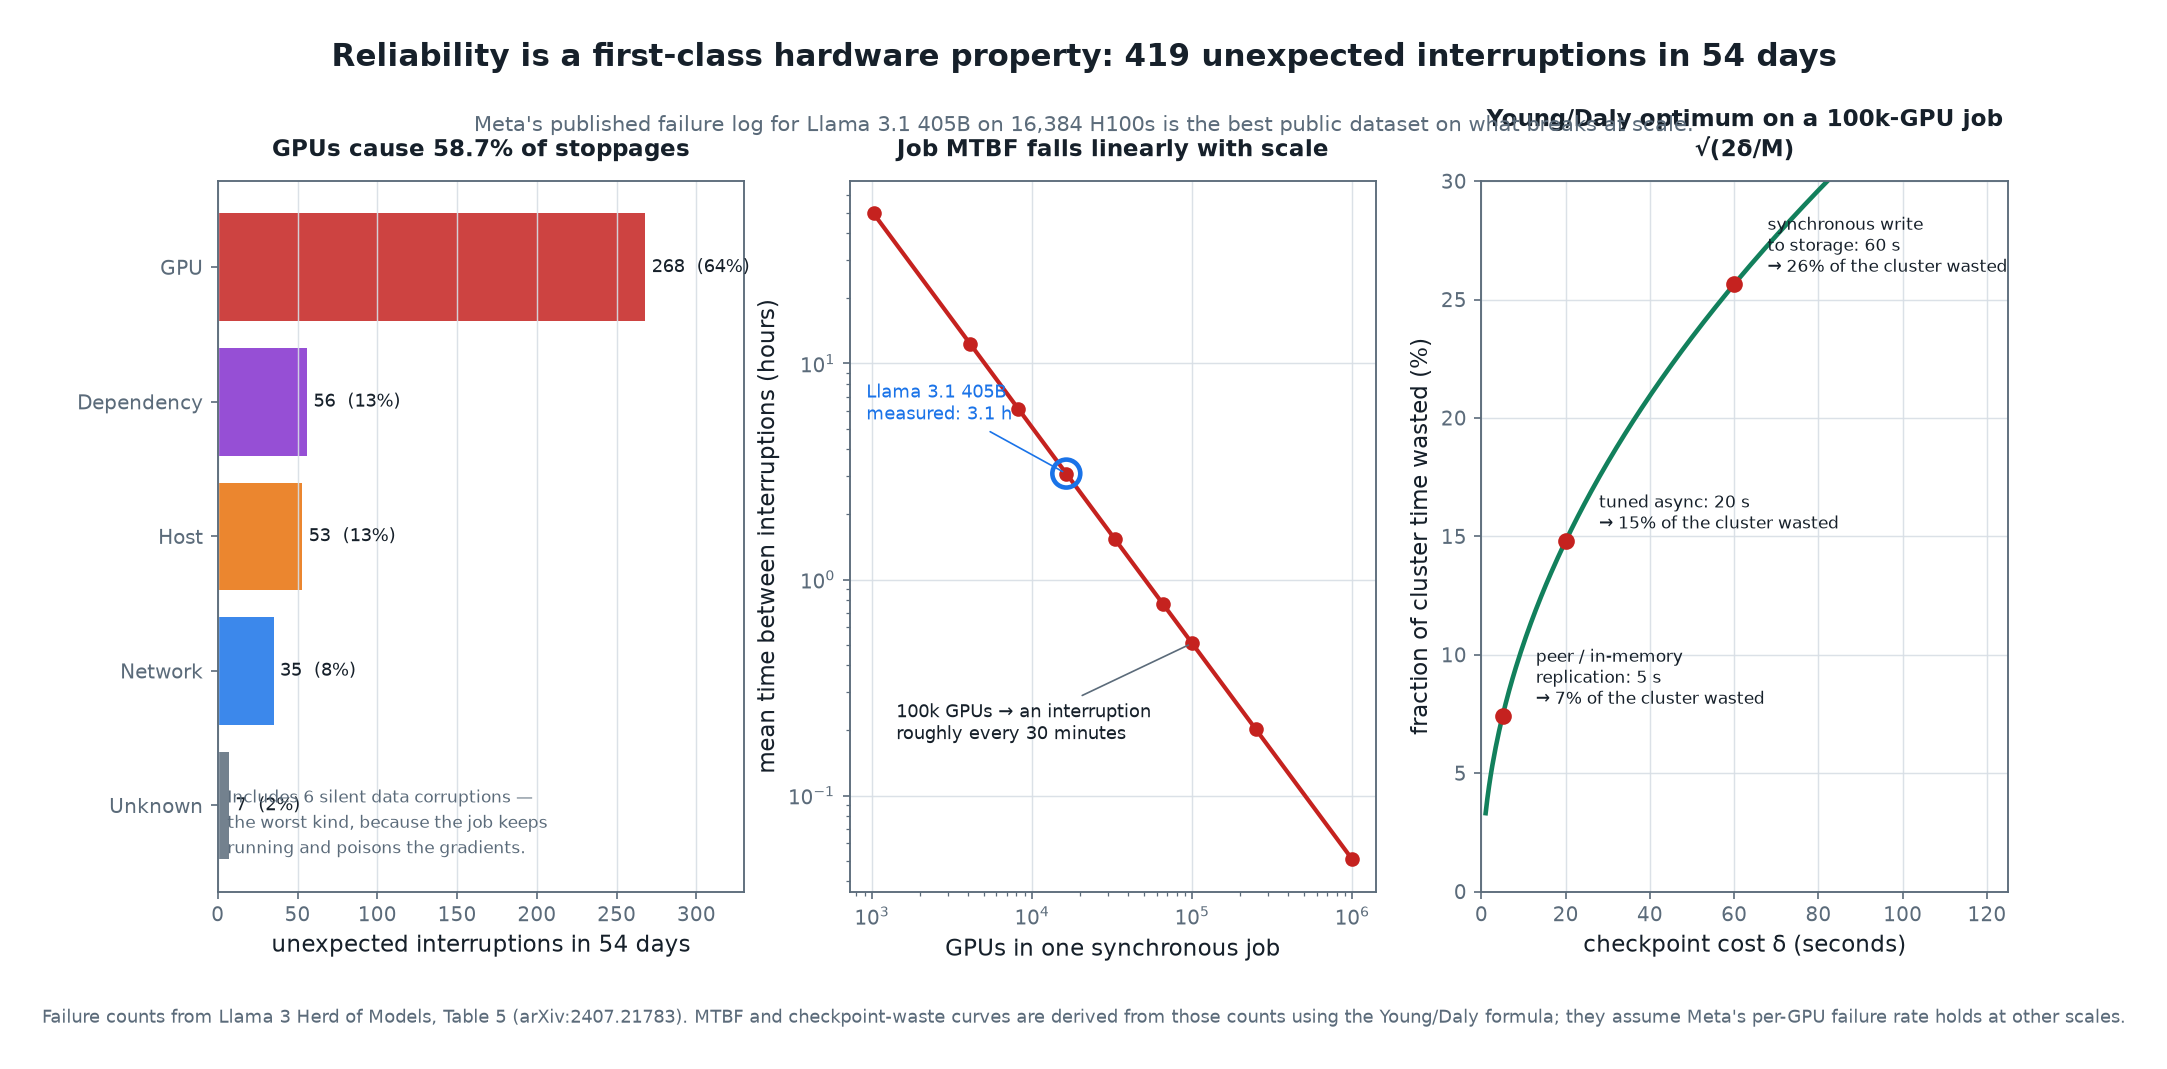
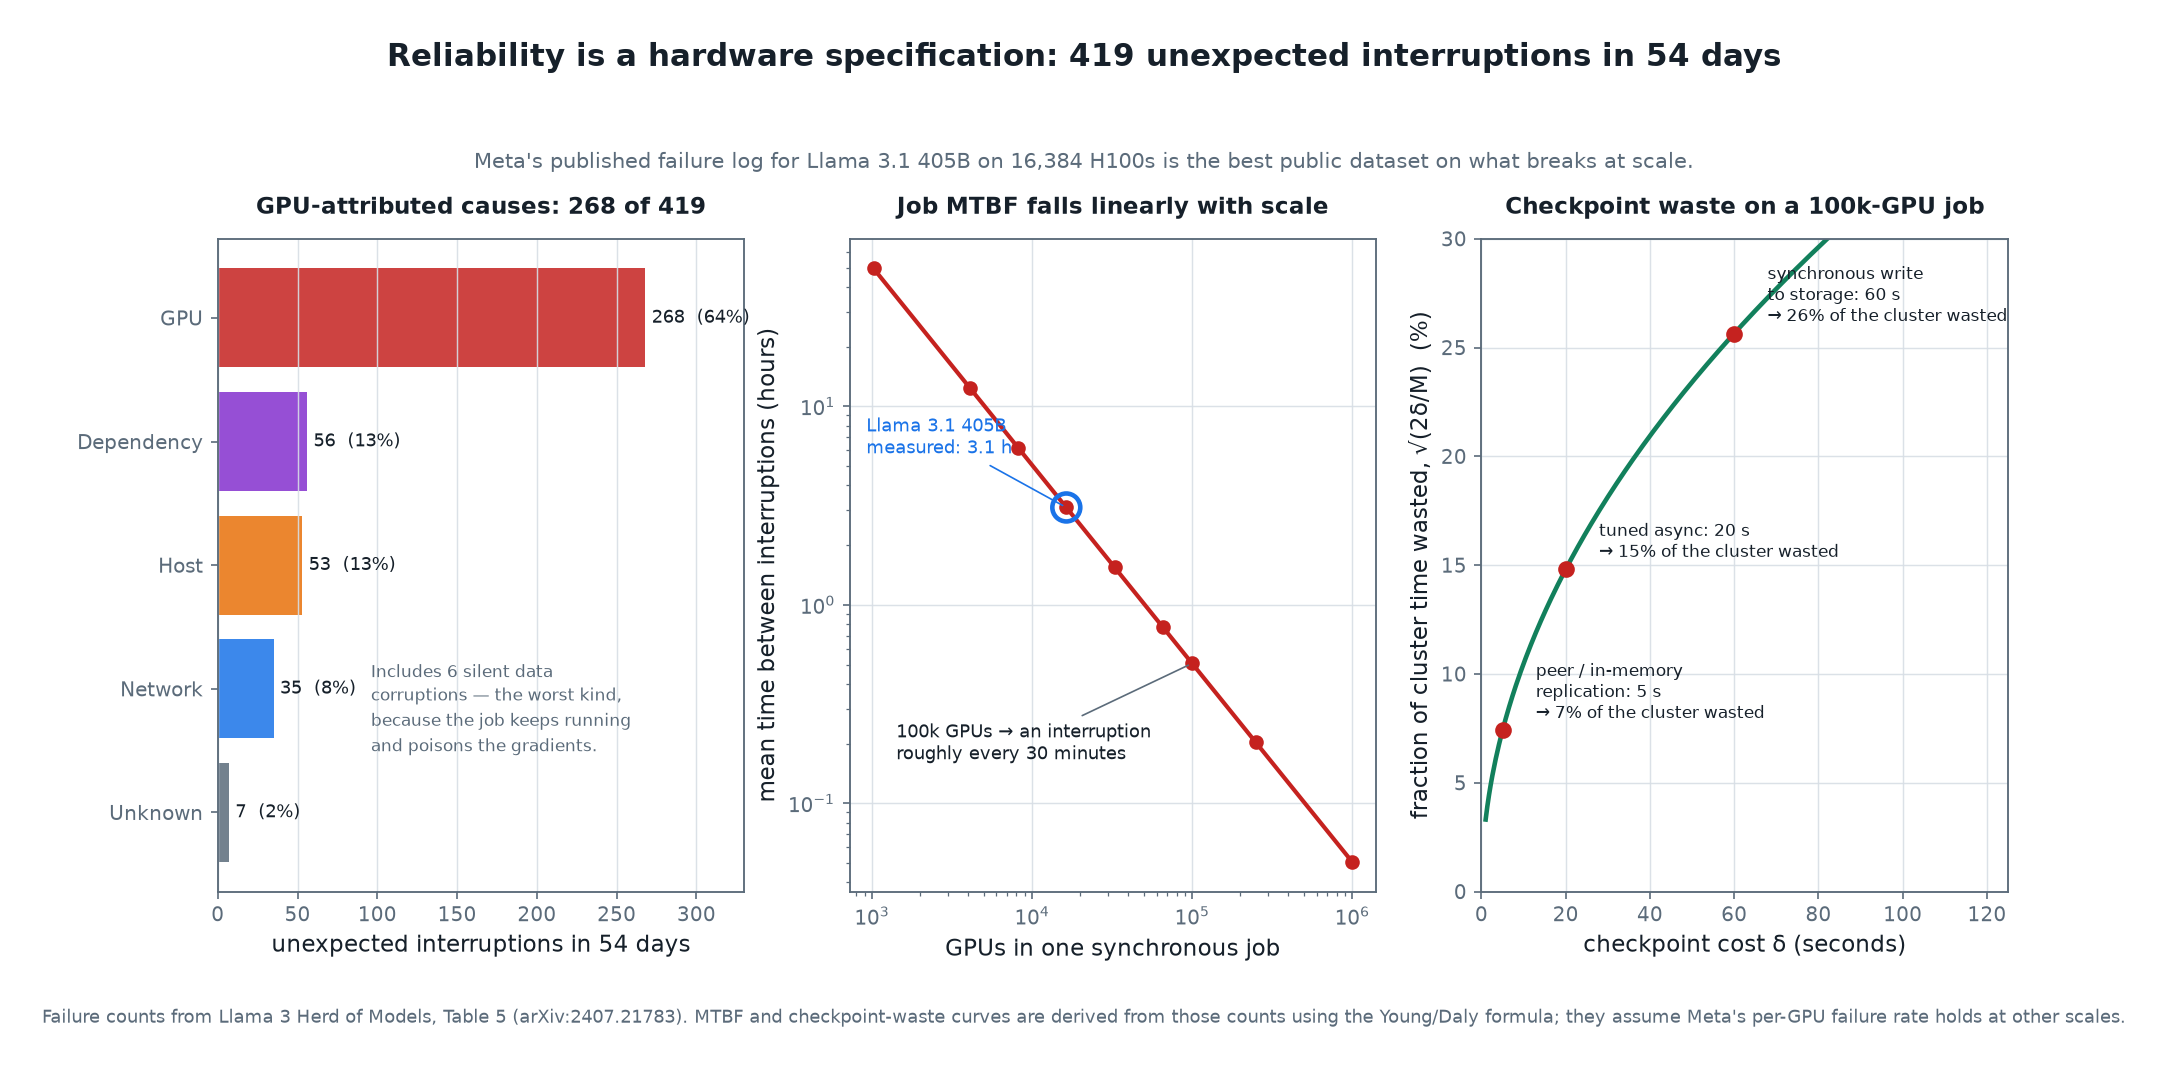
Correct cited dataset counts and reconcile Llama 3 GPU failure share
- appendix: 49 accelerators / 59 cloud offers / 12 rack systems (was 58/61/13)
- section 4.6: state Meta's 58.7% GPU share alongside the 268-of-419 (64%)
  tabulation and explain which causes the difference depends on
- add the HBM capacity-vs-bandwidth figure to section 9 (was unreferenced)
- fig20: fix title collision and annotation overlap

diff --git a/docs/index.html b/docs/index.html
@@ -909,7 +909,7 @@ footer { margin-top: 70px; padding-top: 20px; border-top: 1px solid var(--line);
 <p>One trap worth naming: <strong>FP8 runs report lower MFU while being faster</strong>, because the FP8 peak is 2× the BF16 peak. Databricks measured a 1.4–1.5× throughput gain from FP8 alongside a <em>lower</em> MFU percentage. Any MFU comparison without a stated, common, dense denominator is meaningless.</p>
 <h3 id="46-reliability-is-a-hardware-specification">4.6 Reliability is a hardware specification</h3>
 <p><img alt="Llama 3 failure breakdown, job MTBF versus scale, and checkpoint waste" src="figures/fig20_reliability.png" /></p>
-<p>Meta's published failure log for Llama 3.1 405B on 16,384 H100s over 54 days is the best public dataset in existence on what breaks at scale: <strong>466 interruptions, 47 planned and 419 unexpected, of which about 78% were hardware and 58.7% were GPU-specific</strong> — 148 faulty GPUs, 72 HBM3 failures, 19 SRAM, 17 GPU system processors, 6 silent data corruptions. Software bugs were third at 12.9%. Only <strong>3 of 419</strong> events needed significant human intervention, and Meta still achieved over 90% effective training time. (confirmed — Llama 3 paper, Table 5)</p>
+<p>Meta's published failure log for Llama 3.1 405B on 16,384 H100s over 54 days is the best public dataset in existence on what breaks at scale: <strong>466 interruptions, 47 planned and 419 unexpected, of which about 78% were confirmed hardware issues.</strong> Meta states that GPU issues are the largest single category at <strong>58.7% of unexpected interruptions</strong>; tabulating the paper's per-cause counts (148 faulty GPUs, 72 HBM3 failures, 19 SRAM, 17 GPU system processors, 6 thermal-interface or sensor faults, 6 silent data corruptions) gives 268 of 419, or 64% — the difference depends on whether SRAM, thermal and silent-corruption events are attributed to the GPU. Software bugs were third at 54 events. Only <strong>3 of 419</strong> interruptions needed significant human intervention, and Meta still achieved over 90% effective training time. (confirmed — Llama 3 paper, Table 5)</p>
 <p>Derived consequences (estimate, assuming Meta's per-GPU rate holds):</p>
 <ul>
 <li>Per-GPU MTBF ≈ 2,112 GPU-days ≈ 5.8 GPU-years counting all causes.</li>
@@ -2209,6 +2209,9 @@ footer { margin-top: 70px; padding-top: 20px; border-top: 1px solid var(--line);
 </tr>
 </tbody>
 </table>
+<p>The memory plane is where the field is least NVIDIA-shaped, and it deserves its own view because capacity and bandwidth trade against each other differently for every vendor:</p>
+<p><img alt="HBM capacity versus bandwidth across the field" src="figures/fig10_memory_scatter.png" /></p>
+<p>Three things stand out. AMD has led on capacity for three straight generations and now leads on bandwidth too. HBM4 is the first generation where bandwidth roughly triples rather than creeping up — 22 TB/s on Rubin and about 23 TB/s on MI455X, against 8 TB/s for the entire Blackwell/MI355X generation. And the cost-optimised inference parts (TPU v5e and v6e at 16–32 GB, MTIA v2 on LPDDR5 at 205 GB/s, L4 at 300 GB/s) sit far below the frontier deliberately: for recommendation and ranking the bottleneck is embedding capacity and random access, not sequential bandwidth, and paying for HBM there is waste.</p>
 <h3 id="92-efficiency">9.2 Efficiency</h3>
 <p><img alt="Compute and memory per watt" src="figures/fig11_perf_per_watt.png" /></p>
 <p>Chip-level perf/W favours the specialised parts, and the ordering is stable across metrics: TPU and Maia-class ASICs lead on memory per watt, Blackwell leads on compute per watt among GPUs, and Huawei's 910C trails badly because it lacks low-precision paths and rides an older node.</p>
@@ -2714,7 +2717,7 @@ footer { margin-top: 70px; padding-top: 20px; border-top: 1px solid var(--line);
 </tr>
 </tbody>
 </table>
-<p>The dominant fact here is dispersion, not level. Identical H100 silicon spans <strong>$0.27 (Vast.ai spot) to $12.29 (Azure on-demand)</strong> — a 45× spread, or 12× excluding spot. MI300X spans $1.45 to $7.86. Three structural reasons: neocloud overhead is roughly $0.20–0.50 per GPU-hour against $1.00–2.00 at hyperscalers; marketplaces expose host-set prices with no SLA; and hyperscaler list prices bundle support, networking, storage and compliance that specialists do not.</p>
+<p>The dominant fact here is dispersion, not level. Identical H100 silicon spans <strong>$0.27 (Vast.ai spot) to $12.29 (Azure on-demand)</strong> — a 45× spread, or about 12× excluding spot. MI300X spans $1.45 to $7.86. Three structural reasons: neocloud overhead is roughly $0.20–0.50 per GPU-hour against $1.00–2.00 at hyperscalers; marketplaces expose host-set prices with no SLA; and hyperscaler list prices bundle support, networking, storage and compliance that specialists do not.</p>
 <p><strong>The trend is not monotonic, and most published narratives are out of date.</strong> H100 on-demand went from roughly $7–10/hour at the 2023 peak to $2–4 by late 2025 — driven by CoWoS capacity doubling, neocloud entry, Blackwell pushing Hopper down the stack, and depreciation pressure on unsold inventory. Then it partially reversed: <strong>contract pricing rose about 40% between October 2025 and March 2026, attributed to HBM3e cost pass-through.</strong> Memory, not GPU fabrication, became the binding constraint. Blackwell lead times stretched to 3–7 months by early 2026. (estimate)</p>
 <h3 id="104-normalised-what-you-get-per-dollar">10.4 Normalised: what you get per dollar</h3>
 <p><img alt="Price per PFLOP-hour and per TB/s-hour" src="figures/fig15_price_per_flop.png" /></p>
@@ -3020,9 +3023,9 @@ footer { margin-top: 70px; padding-top: 20px; border-top: 1px solid var(--line);
 <h2 id="12-appendix-methodology-conflicts-and-unknowns">12. Appendix: methodology, conflicts and unknowns</h2>
 <h3 id="121-how-this-report-was-built">12.1 How this report was built</h3>
 <pre><code>data/                        seven CSVs, every row carrying a confidence label
-  accelerators.csv           58 accelerators: specs, TDP, fabric, price
-  cloud_pricing.csv          61 offers across 14 providers and 9 pricing tiers
-  rack_systems.csv           13 rack- and pod-scale systems
+  accelerators.csv           49 accelerators: specs, TDP, fabric, price
+  cloud_pricing.csv          59 offers across 12 providers and 9 pricing tiers
+  rack_systems.csv           12 rack- and pod-scale systems
   mlperf_training.csv        MLPerf Training v4.0 through v6.0 results
   training_runs.csv          published training compute for 14 real models
   bom_costs.csv              modelled bill of materials for 6 chips

diff --git a/scripts/fig_data.py b/scripts/fig_data.py
@@ -728,9 +728,9 @@ def fig20_reliability():
     fig, axes = plt.subplots(1, 3, figsize=(15.4, 6.4))
     titleblock(
         fig,
-        "Reliability is a first-class hardware property: 419 unexpected interruptions in 54 days",
+        "Reliability is a hardware specification: 419 unexpected interruptions in 54 days",
         "Meta's published failure log for Llama 3.1 405B on 16,384 H100s is the best public dataset on what breaks at scale.",
-        top=0.85,
+        top=0.79,
     )
 
     ax = axes[0]
@@ -744,11 +744,11 @@ def fig20_reliability():
                 color=INK)
     ax.set_xlabel("unexpected interruptions in 54 days")
     ax.set_xlim(0, 330)
-    ax.set_title("GPUs cause 58.7% of stoppages", fontsize=11.0)
+    ax.set_title("GPU-attributed causes: 268 of 419", fontsize=11.0)
     ax.grid(axis="y", visible=False)
-    note(ax, 6, 0.15,
-         "Includes 6 silent data corruptions —\nthe worst kind, because the job keeps\n"
-         "running and poisons the gradients.", fontsize=8.4)
+    note(ax, 96, 1.25,
+         "Includes 6 silent data\ncorruptions — the worst kind,\n"
+         "because the job keeps running\nand poisons the gradients.", fontsize=8.4)
 
     ax = axes[1]
     n = np.array([1024, 4096, 8192, 16384, 32768, 65536, 100000, 250000, 1000000])
@@ -783,8 +783,8 @@ def fig20_reliability():
         ax.annotate(f"{lbl}\n→ {w:.0f}% of the cluster wasted", (d_, w),
                     textcoords="offset points", xytext=(16, 6), fontsize=8.4, color=INK)
     ax.set_xlabel("checkpoint cost δ (seconds)")
-    ax.set_ylabel("fraction of cluster time wasted (%)")
-    ax.set_title("Young/Daly optimum on a 100k-GPU job\n√(2δ/M)", fontsize=11.0)
+    ax.set_ylabel("fraction of cluster time wasted, √(2δ/M)  (%)")
+    ax.set_title("Checkpoint waste on a 100k-GPU job", fontsize=11.0)
     ax.set_xlim(0, 125)
     ax.set_ylim(0, 30)
 

diff --git a/report/report.md b/report/report.md
@@ -413,7 +413,7 @@ One trap worth naming: **FP8 runs report lower MFU while being faster**, because
 
 ![Llama 3 failure breakdown, job MTBF versus scale, and checkpoint waste](figures/fig20_reliability.png)
 
-Meta's published failure log for Llama 3.1 405B on 16,384 H100s over 54 days is the best public dataset in existence on what breaks at scale: **466 interruptions, 47 planned and 419 unexpected, of which about 78% were hardware and 58.7% were GPU-specific** — 148 faulty GPUs, 72 HBM3 failures, 19 SRAM, 17 GPU system processors, 6 silent data corruptions. Software bugs were third at 12.9%. Only **3 of 419** events needed significant human intervention, and Meta still achieved over 90% effective training time. (confirmed — Llama 3 paper, Table 5)
+Meta's published failure log for Llama 3.1 405B on 16,384 H100s over 54 days is the best public dataset in existence on what breaks at scale: **466 interruptions, 47 planned and 419 unexpected, of which about 78% were confirmed hardware issues.** Meta states that GPU issues are the largest single category at **58.7% of unexpected interruptions**; tabulating the paper's per-cause counts (148 faulty GPUs, 72 HBM3 failures, 19 SRAM, 17 GPU system processors, 6 thermal-interface or sensor faults, 6 silent data corruptions) gives 268 of 419, or 64% — the difference depends on whether SRAM, thermal and silent-corruption events are attributed to the GPU. Software bugs were third at 54 events. Only **3 of 419** interruptions needed significant human intervention, and Meta still achieved over 90% effective training time. (confirmed — Llama 3 paper, Table 5)
 
 Derived consequences (estimate, assuming Meta's per-GPU rate holds):
 
@@ -767,6 +767,12 @@ The pattern in that figure is the single most useful thing to internalise: **no 
 | Cost per token served | depends entirely on contract | see §10 |
 | Software risk | NVIDIA | breadth, day-one format support |
 
+The memory plane is where the field is least NVIDIA-shaped, and it deserves its own view because capacity and bandwidth trade against each other differently for every vendor:
+
+![HBM capacity versus bandwidth across the field](figures/fig10_memory_scatter.png)
+
+Three things stand out. AMD has led on capacity for three straight generations and now leads on bandwidth too. HBM4 is the first generation where bandwidth roughly triples rather than creeping up — 22 TB/s on Rubin and about 23 TB/s on MI455X, against 8 TB/s for the entire Blackwell/MI355X generation. And the cost-optimised inference parts (TPU v5e and v6e at 16–32 GB, MTIA v2 on LPDDR5 at 205 GB/s, L4 at 300 GB/s) sit far below the frontier deliberately: for recommendation and ranking the bottleneck is embedding capacity and random access, not sequential bandwidth, and paying for HBM there is waste.
+
 ### 9.2 Efficiency
 
 ![Compute and memory per watt](figures/fig11_perf_per_watt.png)
@@ -891,7 +897,7 @@ Why this gates supply: a ~2,500 mm² H100-class interposer yields roughly 16–2
 | **TPU v6e Trillium** | $1.22 | — | $2.70 | $1.22 | 2.2× |
 | **TPU v7 Ironwood** | $1.60 | — | $12.00 | $1.60 | 7.5× |
 
-The dominant fact here is dispersion, not level. Identical H100 silicon spans **$0.27 (Vast.ai spot) to $12.29 (Azure on-demand)** — a 45× spread, or 12× excluding spot. MI300X spans $1.45 to $7.86. Three structural reasons: neocloud overhead is roughly $0.20–0.50 per GPU-hour against $1.00–2.00 at hyperscalers; marketplaces expose host-set prices with no SLA; and hyperscaler list prices bundle support, networking, storage and compliance that specialists do not.
+The dominant fact here is dispersion, not level. Identical H100 silicon spans **$0.27 (Vast.ai spot) to $12.29 (Azure on-demand)** — a 45× spread, or about 12× excluding spot. MI300X spans $1.45 to $7.86. Three structural reasons: neocloud overhead is roughly $0.20–0.50 per GPU-hour against $1.00–2.00 at hyperscalers; marketplaces expose host-set prices with no SLA; and hyperscaler list prices bundle support, networking, storage and compliance that specialists do not.
 
 **The trend is not monotonic, and most published narratives are out of date.** H100 on-demand went from roughly $7–10/hour at the 2023 peak to $2–4 by late 2025 — driven by CoWoS capacity doubling, neocloud entry, Blackwell pushing Hopper down the stack, and depreciation pressure on unsold inventory. Then it partially reversed: **contract pricing rose about 40% between October 2025 and March 2026, attributed to HBM3e cost pass-through.** Memory, not GPU fabrication, became the binding constraint. Blackwell lead times stretched to 3–7 months by early 2026. (estimate)
 
@@ -1037,9 +1043,9 @@ A decision procedure, in the order the questions actually bind.
 
 ```
 data/                        seven CSVs, every row carrying a confidence label
-  accelerators.csv           58 accelerators: specs, TDP, fabric, price
-  cloud_pricing.csv          61 offers across 14 providers and 9 pricing tiers
-  rack_systems.csv           13 rack- and pod-scale systems
+  accelerators.csv           49 accelerators: specs, TDP, fabric, price
+  cloud_pricing.csv          59 offers across 12 providers and 9 pricing tiers
+  rack_systems.csv           12 rack- and pod-scale systems
   mlperf_training.csv        MLPerf Training v4.0 through v6.0 results
   training_runs.csv          published training compute for 14 real models
   bom_costs.csv              modelled bill of materials for 6 chips

diff --git a/report/sections/04_llm_training_math.md b/report/sections/04_llm_training_math.md
@@ -121,7 +121,7 @@ One trap worth naming: **FP8 runs report lower MFU while being faster**, because
 
 ![Llama 3 failure breakdown, job MTBF versus scale, and checkpoint waste](figures/fig20_reliability.png)
 
-Meta's published failure log for Llama 3.1 405B on 16,384 H100s over 54 days is the best public dataset in existence on what breaks at scale: **466 interruptions, 47 planned and 419 unexpected, of which about 78% were hardware and 58.7% were GPU-specific** — 148 faulty GPUs, 72 HBM3 failures, 19 SRAM, 17 GPU system processors, 6 silent data corruptions. Software bugs were third at 12.9%. Only **3 of 419** events needed significant human intervention, and Meta still achieved over 90% effective training time. (confirmed — Llama 3 paper, Table 5)
+Meta's published failure log for Llama 3.1 405B on 16,384 H100s over 54 days is the best public dataset in existence on what breaks at scale: **466 interruptions, 47 planned and 419 unexpected, of which about 78% were confirmed hardware issues.** Meta states that GPU issues are the largest single category at **58.7% of unexpected interruptions**; tabulating the paper's per-cause counts (148 faulty GPUs, 72 HBM3 failures, 19 SRAM, 17 GPU system processors, 6 thermal-interface or sensor faults, 6 silent data corruptions) gives 268 of 419, or 64% — the difference depends on whether SRAM, thermal and silent-corruption events are attributed to the GPU. Software bugs were third at 54 events. Only **3 of 419** interruptions needed significant human intervention, and Meta still achieved over 90% effective training time. (confirmed — Llama 3 paper, Table 5)
 
 Derived consequences (estimate, assuming Meta's per-GPU rate holds):
 

diff --git a/report/sections/10_supply_price.md b/report/sections/10_supply_price.md
@@ -41,7 +41,7 @@ Why this gates supply: a ~2,500 mm² H100-class interposer yields roughly 16–2
 
 <!-- TABLE:cloud_prices -->
 
-The dominant fact here is dispersion, not level. Identical H100 silicon spans **$0.27 (Vast.ai spot) to $12.29 (Azure on-demand)** — a 45× spread, or 12× excluding spot. MI300X spans $1.45 to $7.86. Three structural reasons: neocloud overhead is roughly $0.20–0.50 per GPU-hour against $1.00–2.00 at hyperscalers; marketplaces expose host-set prices with no SLA; and hyperscaler list prices bundle support, networking, storage and compliance that specialists do not.
+The dominant fact here is dispersion, not level. Identical H100 silicon spans **$0.27 (Vast.ai spot) to $12.29 (Azure on-demand)** — a 45× spread, or about 12× excluding spot. MI300X spans $1.45 to $7.86. Three structural reasons: neocloud overhead is roughly $0.20–0.50 per GPU-hour against $1.00–2.00 at hyperscalers; marketplaces expose host-set prices with no SLA; and hyperscaler list prices bundle support, networking, storage and compliance that specialists do not.
 
 **The trend is not monotonic, and most published narratives are out of date.** H100 on-demand went from roughly $7–10/hour at the 2023 peak to $2–4 by late 2025 — driven by CoWoS capacity doubling, neocloud entry, Blackwell pushing Hopper down the stack, and depreciation pressure on unsold inventory. Then it partially reversed: **contract pricing rose about 40% between October 2025 and March 2026, attributed to HBM3e cost pass-through.** Memory, not GPU fabrication, became the binding constraint. Blackwell lead times stretched to 3–7 months by early 2026. (estimate)
 

diff --git a/report/sections/09_head_to_head.md b/report/sections/09_head_to_head.md
@@ -19,6 +19,12 @@ The pattern in that figure is the single most useful thing to internalise: **no 
 | Cost per token served | depends entirely on contract | see §10 |
 | Software risk | NVIDIA | breadth, day-one format support |
 
+The memory plane is where the field is least NVIDIA-shaped, and it deserves its own view because capacity and bandwidth trade against each other differently for every vendor:
+
+![HBM capacity versus bandwidth across the field](figures/fig10_memory_scatter.png)
+
+Three things stand out. AMD has led on capacity for three straight generations and now leads on bandwidth too. HBM4 is the first generation where bandwidth roughly triples rather than creeping up — 22 TB/s on Rubin and about 23 TB/s on MI455X, against 8 TB/s for the entire Blackwell/MI355X generation. And the cost-optimised inference parts (TPU v5e and v6e at 16–32 GB, MTIA v2 on LPDDR5 at 205 GB/s, L4 at 300 GB/s) sit far below the frontier deliberately: for recommendation and ranking the bottleneck is embedding capacity and random access, not sequential bandwidth, and paying for HBM there is waste.
+
 ### 9.2 Efficiency
 
 ![Compute and memory per watt](figures/fig11_perf_per_watt.png)

diff --git a/report/sections/12_appendix.md b/report/sections/12_appendix.md
@@ -6,9 +6,9 @@
 
 ```
 data/                        seven CSVs, every row carrying a confidence label
-  accelerators.csv           58 accelerators: specs, TDP, fabric, price
-  cloud_pricing.csv          61 offers across 14 providers and 9 pricing tiers
-  rack_systems.csv           13 rack- and pod-scale systems
+  accelerators.csv           49 accelerators: specs, TDP, fabric, price
+  cloud_pricing.csv          59 offers across 12 providers and 9 pricing tiers
+  rack_systems.csv           12 rack- and pod-scale systems
   mlperf_training.csv        MLPerf Training v4.0 through v6.0 results
   training_runs.csv          published training compute for 14 real models
   bom_costs.csv              modelled bill of materials for 6 chips
